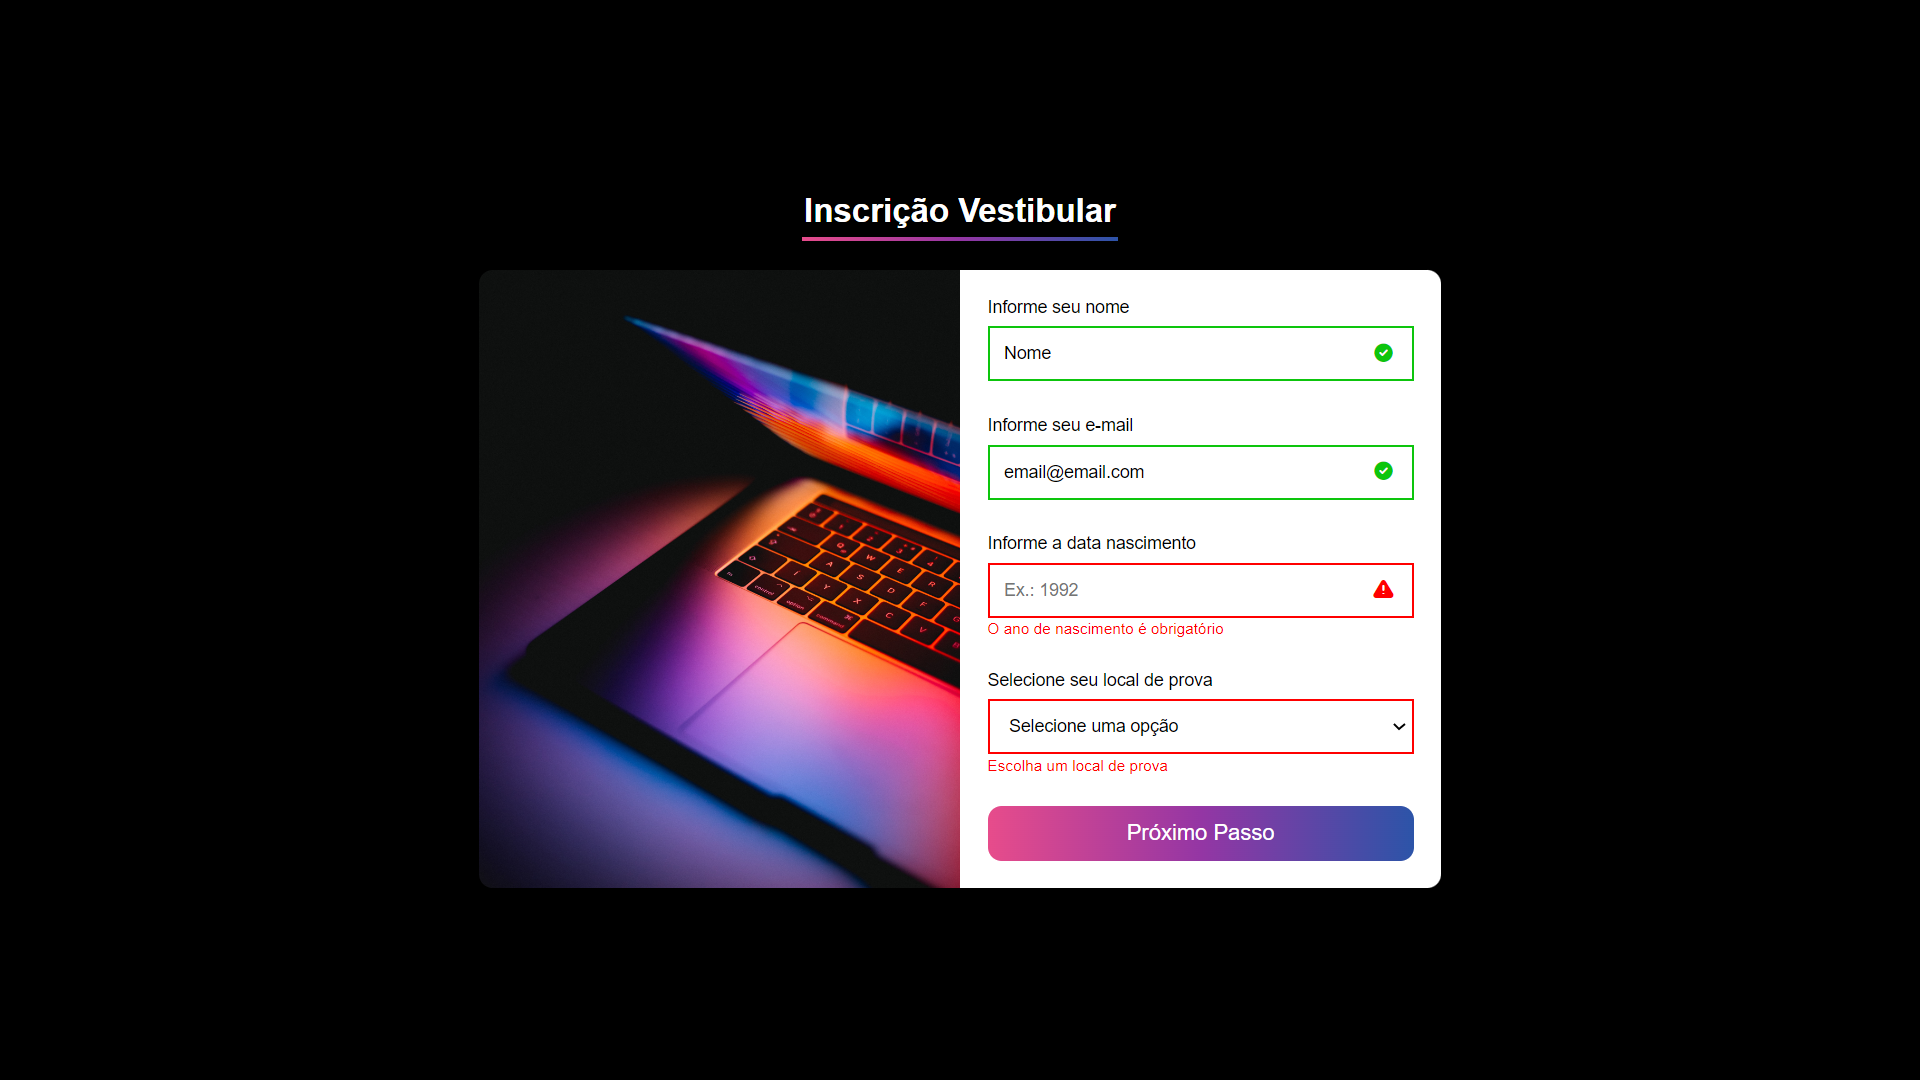
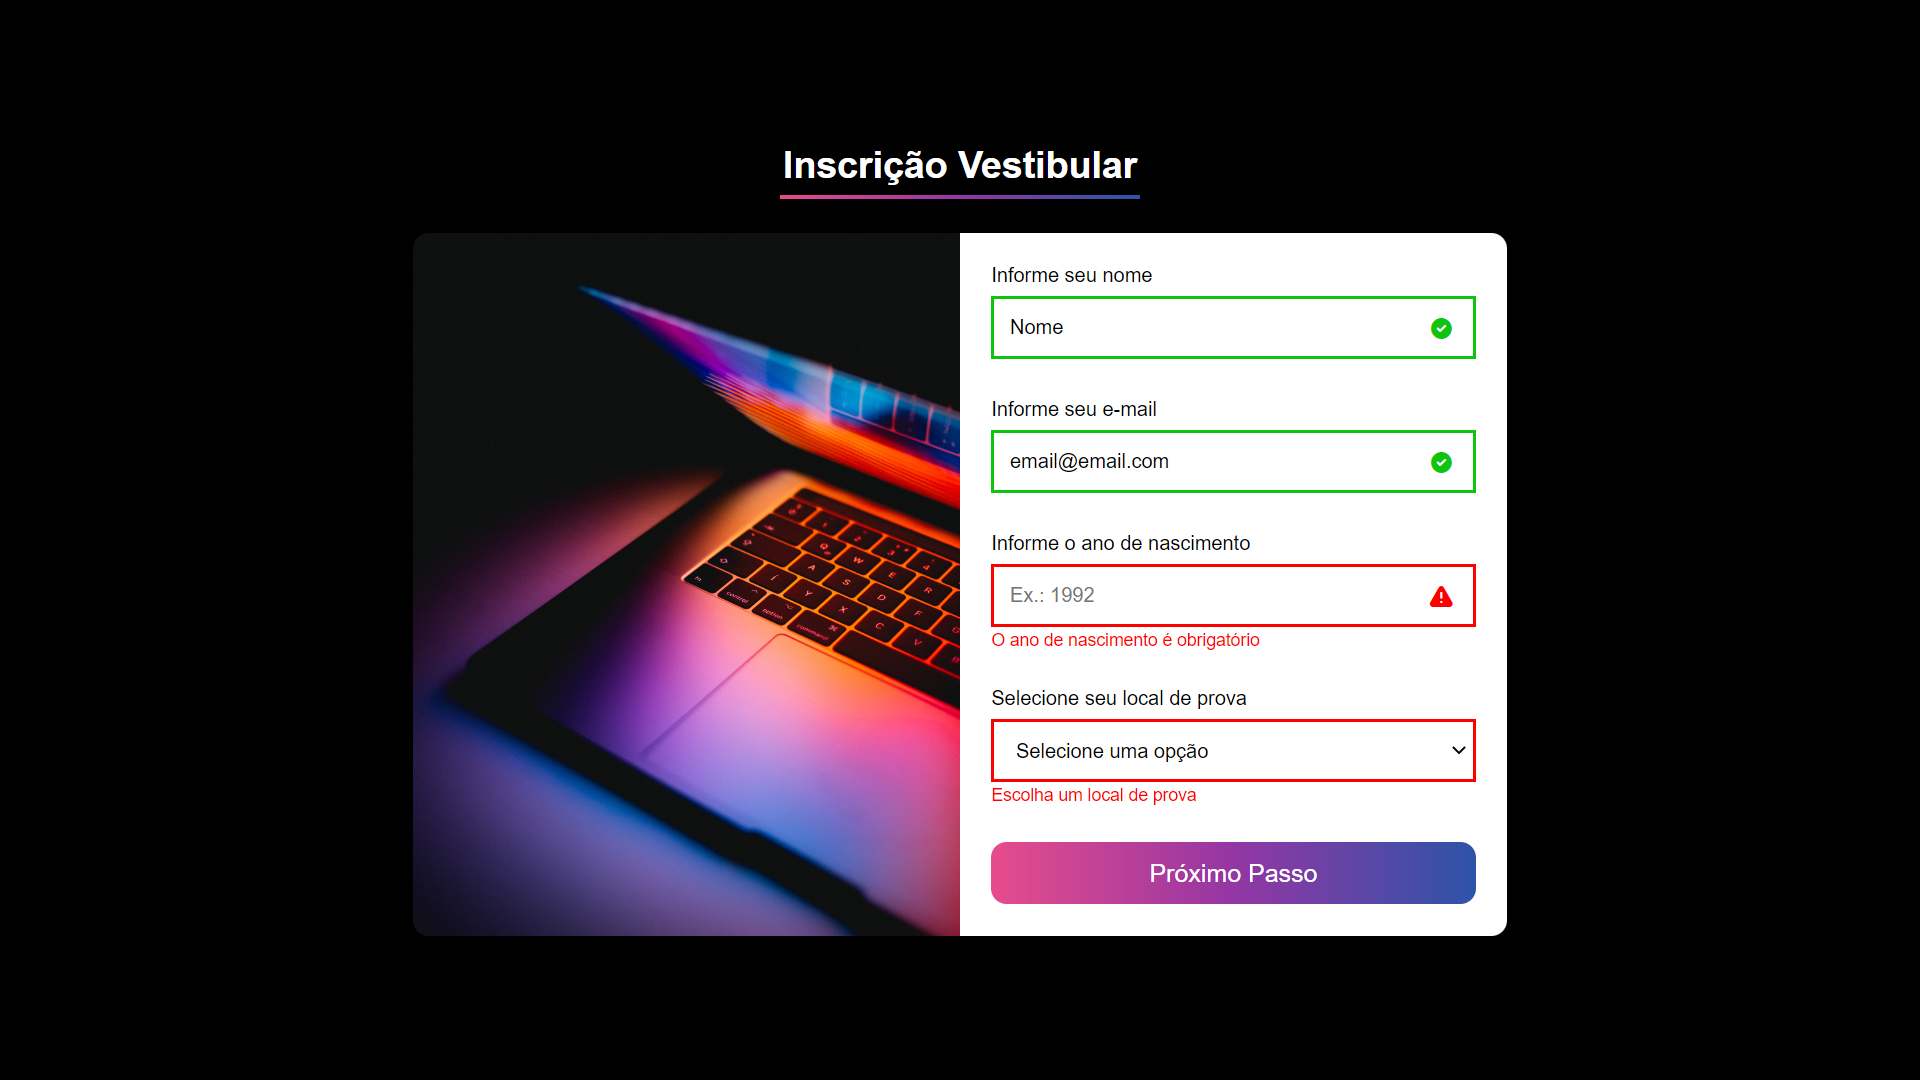
Conteudo Modificado

Changed region(s): [[0.1875, 0.1222, 0.8125, 0.8861]]

diff --git a/js/script.js b/js/script.js
@@ -93,6 +93,15 @@ button.addEventListener('click', (event) => {
         return;
     }
 
+    if (form.birthday.value < 1800) {
+        form.birthday.classList.add('error');
+        iconError[2].classList.add('show-error');
+        strong[2].textContent = 'O ano de nascimento não é válido';
+        form.birthday.classList.remove('success');
+        iconSuccess[2].classList.remove('show-success');
+        return;
+    }
+
     const age = new Date().getFullYear() - form.birthday.value;
 
     if (age < 18) {
@@ -100,7 +109,7 @@ button.addEventListener('click', (event) => {
         iconError[2].classList.add('show-error');
         form.birthday.classList.remove('success');
         iconSuccess[2].classList.remove('show-success');
-        alert('Você precisa ser maior de 18 anos para continuar.');
+        alert('Você precisa 17 anos ou mais para continuar.');
         return;
     }
 

diff --git a/index.html b/index.html
@@ -38,7 +38,7 @@
                     <strong></strong>
                 </div>
                 <div>
-                    <label for="birthday">Informe a data nascimento</label>
+                    <label for="birthday">Informe o ano de nascimento</label>
                     <input onkeyup="typingInputBirthday()" type="number" name="birthday" id="birthday"
                         placeholder="Ex.: 1992">
                     <i class="uis uis-exclamation-triangle hide"></i>
